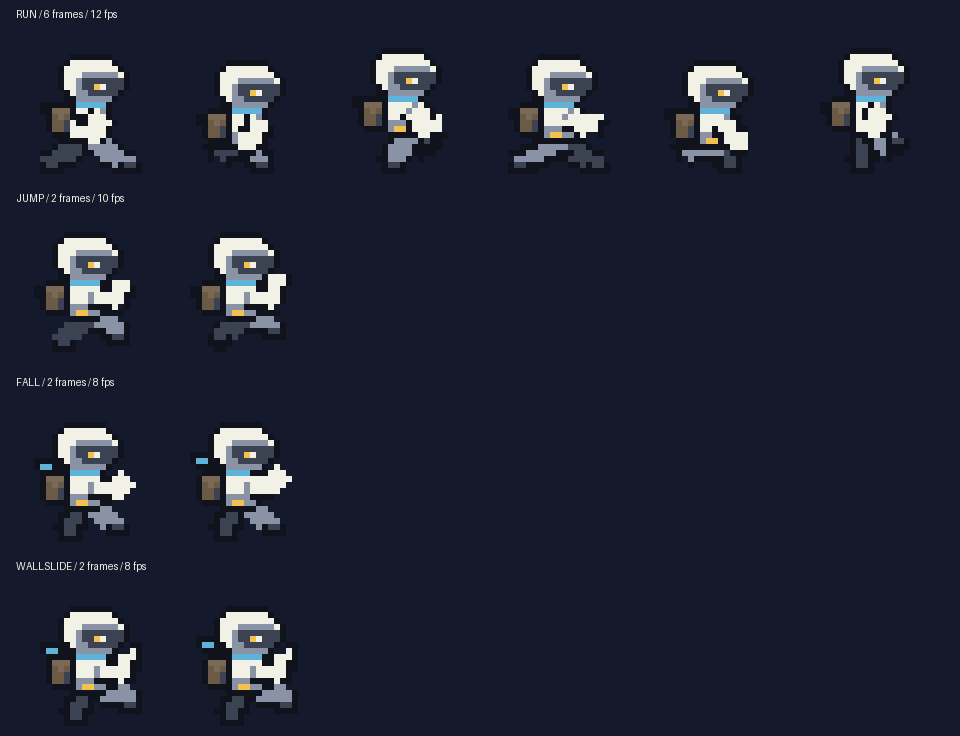
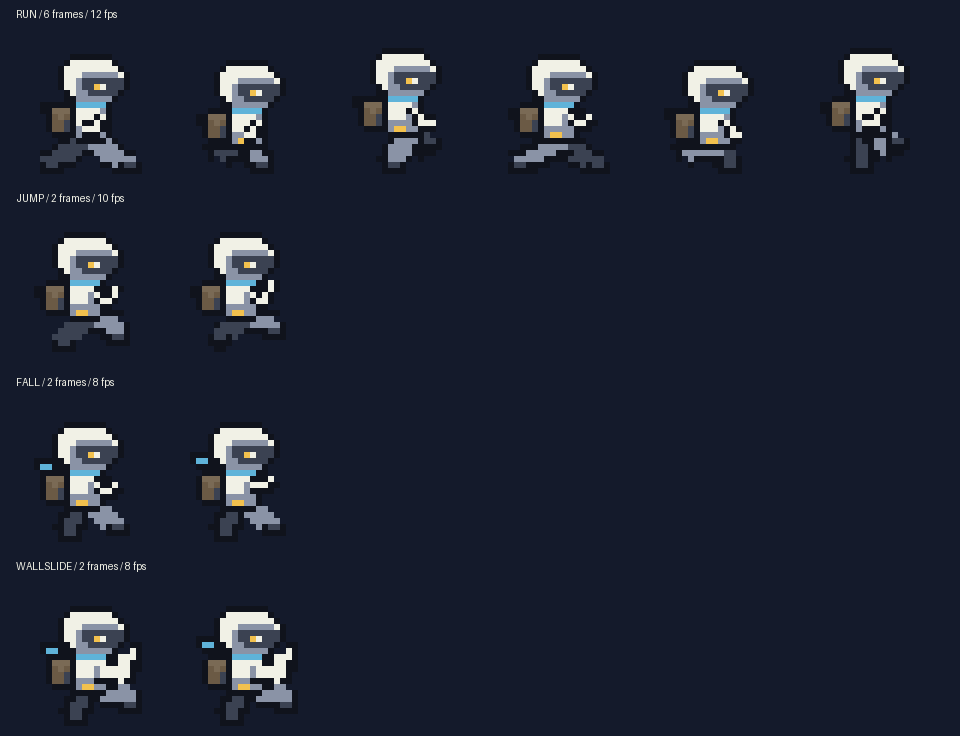
Art updates, shorter arms

diff --git a/art/player/movement.py b/art/player/movement.py
@@ -15,10 +15,10 @@ def color(token):
     return PALETTE[COLORS[token]]
 
 
-def limb(im, points, token='s', boot=False):
+def limb(im, points, token='s', boot=False, width=3):
     draw = ImageDraw.Draw(im)
-    draw.line(points, fill=color('o'), width=5)
-    draw.line(points, fill=color(token), width=3)
+    draw.line(points, fill=color('o'), width=width + 2)
+    draw.line(points, fill=color(token), width=width)
     if boot:
         x, y = points[-1]
         draw.rectangle((x - 1, y, x + 2, y + 1), fill=color('o'))
@@ -59,14 +59,14 @@ def run_frame(i):
     limb(im, front, 's', True)
     body(im, 5, 12 + bob, i % 2)
     arm = [
-        [(14, 14), (12, 17), (9, 16)],
-        [(14, 15), (13, 18), (11, 18)],
-        [(14, 13), (16, 16), (18, 15)],
-        [(14, 14), (17, 16), (18, 14)],
-        [(14, 15), (15, 18), (17, 18)],
-        [(14, 13), (12, 16), (10, 15)],
+        [(14, 14), (13, 16), (11, 16)],
+        [(14, 15), (13, 17), (12, 17)],
+        [(14, 13), (15, 15), (17, 15)],
+        [(14, 14), (16, 15), (17, 14)],
+        [(14, 15), (15, 17), (16, 17)],
+        [(14, 13), (13, 15), (11, 15)],
     ][i]
-    limb(im, arm, 'w')
+    limb(im, arm, 'w', width=1)
     return im
 
 
@@ -75,7 +75,7 @@ def jump_frame(i):
     limb(im, [(11, 17), (8, 20), (7, 21 - i)], 'd', True)
     limb(im, [(13, 17), (16, 18), (16, 20 - i)], 's', True)
     body(im, 4, 11, 1)
-    limb(im, [(13, 13), (16, 14), (17, 11 - i)], 'w')
+    limb(im, [(13, 13), (15, 14), (16, 12 - i)], 'w', width=1)
     return im
 
 
@@ -84,7 +84,7 @@ def fall_frame(i):
     limb(im, [(10, 18), (9, 20), (8, 22)], 'd', True)
     limb(im, [(13, 18), (15, 20), (16, 21)], 's', True)
     body(im, 4, 12, -2 - i)
-    limb(im, [(13, 14), (16, 15 - i), (18, 13 - i)], 'w')
+    limb(im, [(13, 14), (15, 15 - i), (16, 14 - i)], 'w', width=1)
     return im
 
 
